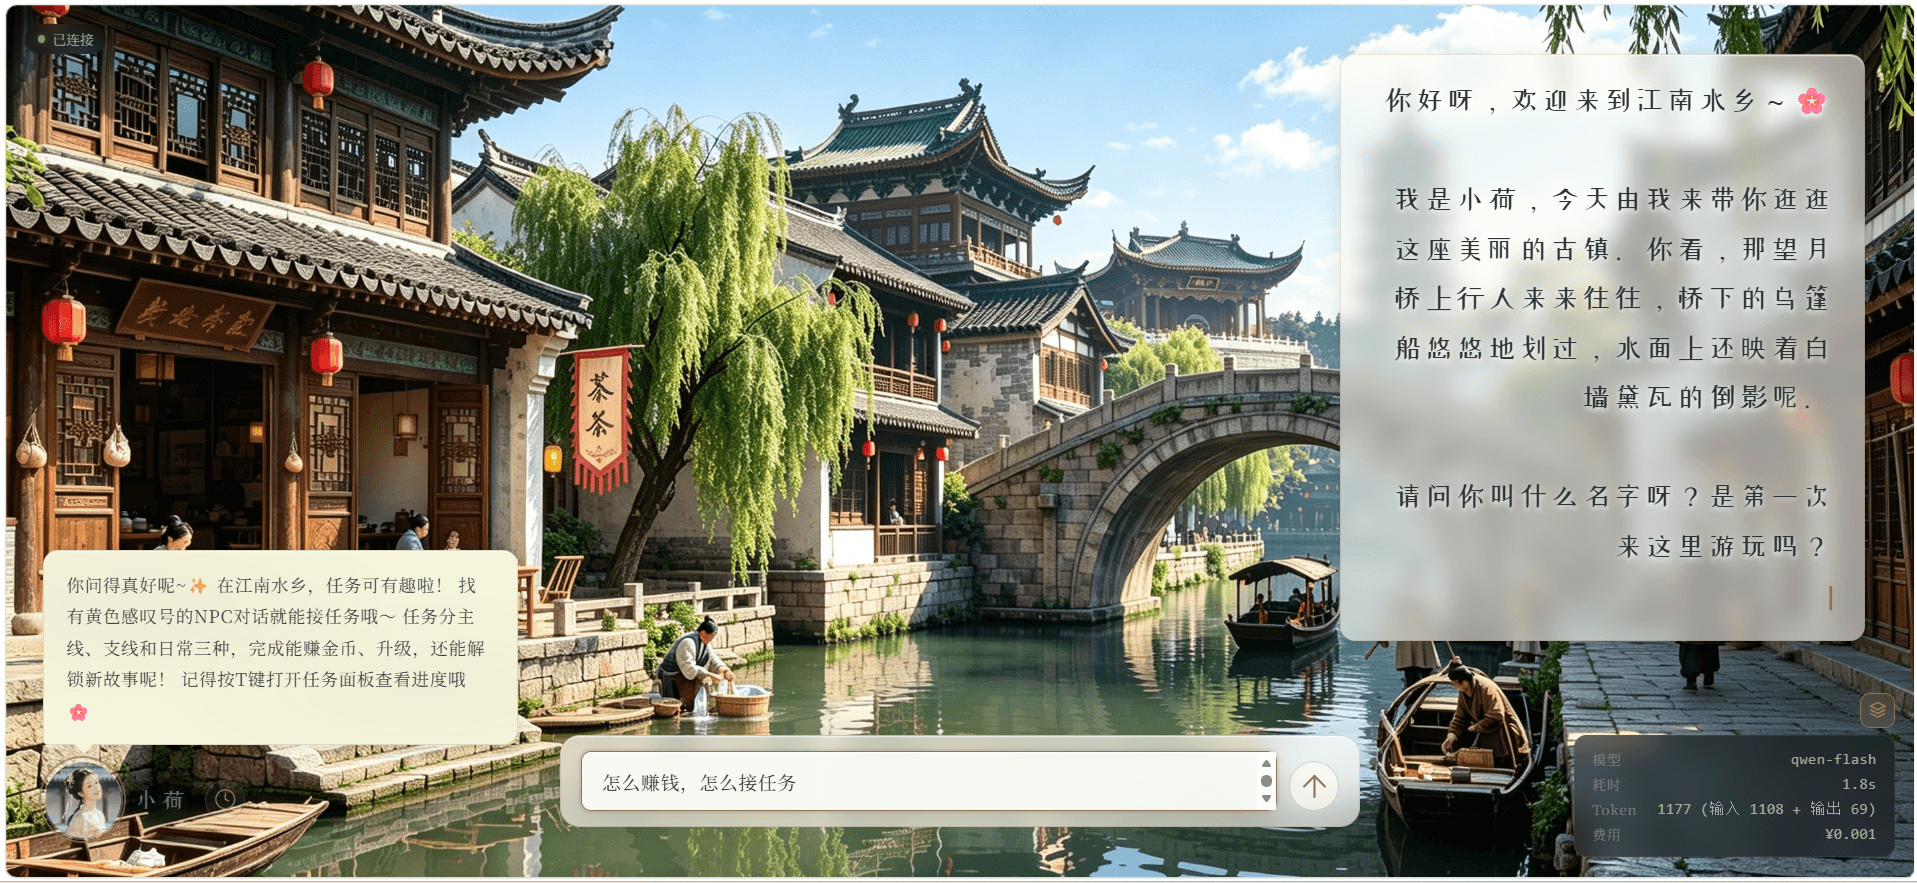
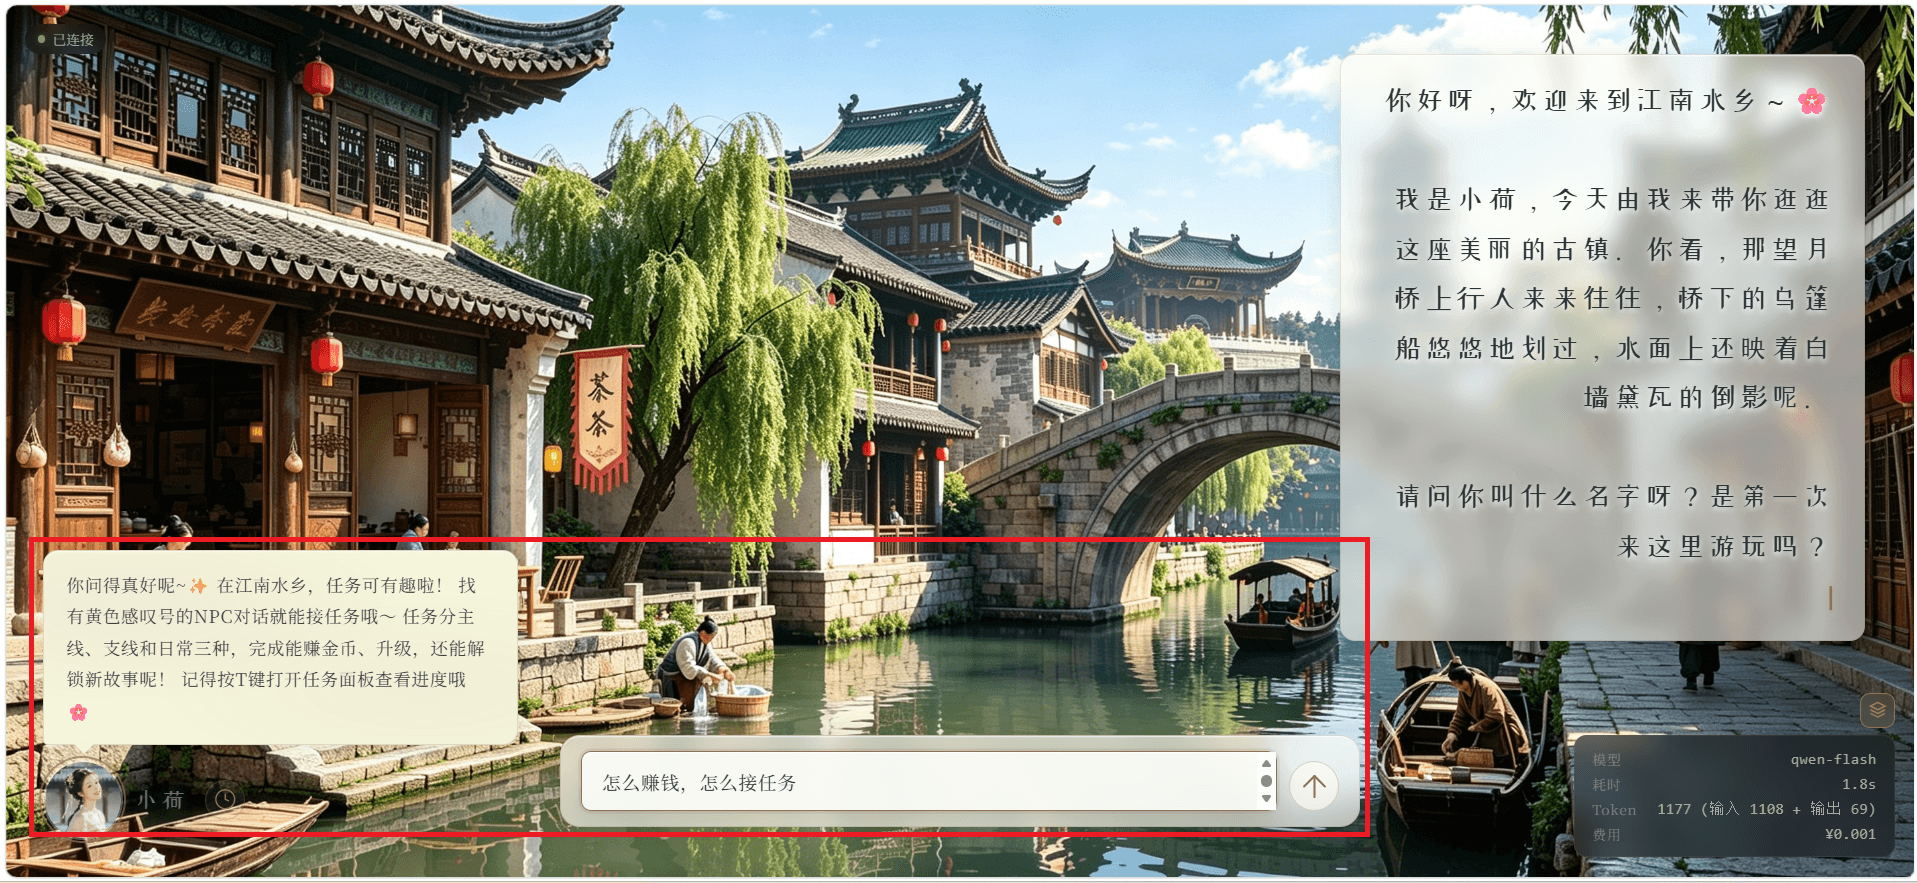
fix 1. context 没有正确传递

Changed region(s): [[0.0, 0.9173, 0.7387, 0.9479], [0.0308, 0.581, 0.7079, 0.6116], [0.0, 0.6116, 0.0308, 0.6421]]

diff --git a/backend/internal/observability/tracer.go b/backend/internal/observability/tracer.go
@@ -97,25 +97,12 @@ func EndSpanWithDuration(ctx context.Context, span trace.Span) {
 //	_, childSpan := observability.StartChildSpan(ctx, "Cache.Check")
 //	defer observability.EndChildSpan(ctx, childSpan)
 func StartChildSpan(ctx context.Context, name string) (context.Context, trace.Span) {
-	startTime := time.Now()
-	ctx = context.WithValue(ctx, spanStartTimeKey{}, startTime)
 	return Tracer().Start(ctx, name)
 }
 
-// EndChildSpan 结束子 Span 并记录耗时（毫秒）。
-// 需要配合 StartChildSpan 使用。
 func EndChildSpan(ctx context.Context, span trace.Span) {
 	if span == nil {
 		return
 	}
-
-	// 从 context 中获取开始时间并计算耗时
-	if startTime, ok := ctx.Value(spanStartTimeKey{}).(time.Time); ok {
-		durationMs := time.Since(startTime).Milliseconds()
-		span.SetAttributes(
-			attribute.Int64("duration_ms", durationMs),
-		)
-	}
-
 	span.End()
 }

diff --git a/backend/internal/agent/runtime.go b/backend/internal/agent/runtime.go
@@ -469,7 +469,7 @@ func (r *Runtime) HandleChatStream(ctx context.Context, session *Session, messag
 	r.logger.Info("[HandleChatStream] Checking LLM health", "healthy", isHealthy)
 
 	// 6. LLM调用子Span（包含完整的请求发送和数据接收）
-	_, llmSpan := observability.StartChildSpan(ctx, "LLM.StreamChat")
+	llmCtx, llmSpan := observability.StartChildSpan(ctx, "LLM.StreamChat")
 	if isHealthy {
 		r.logger.Info("[HandleChatStream] Calling primary LLM stream")
 		stream, err = r.llmAdapter.StreamChat(ctx, req)
@@ -483,10 +483,9 @@ func (r *Runtime) HandleChatStream(ctx context.Context, session *Session, messag
 		r.logger.Warn("[HandleChatStream] Primary LLM unhealthy, using fallback")
 		stream, err = r.fallbackAdapter.StreamChat(ctx, req)
 	}
-	// 注意：这里不结束 llmSpan，让它一直覆盖到流式数据处理完成
 
 	if err != nil {
-		observability.EndChildSpan(ctx, llmSpan)
+		observability.EndChildSpan(llmCtx, llmSpan)
 		r.logger.Error("[HandleChatStream] All LLM stream calls failed", "error", err)
 		observability.AgentRequestsTotal.WithLabelValues("chat", "error").Inc()
 		observability.RecordError(span, err)
@@ -508,7 +507,7 @@ func (r *Runtime) HandleChatStream(ctx context.Context, session *Session, messag
 		}
 
 		// 7. 流式数据接收子Span（在 LLM.StreamChat 内部）
-		_, receiveSpan := observability.StartChildSpan(ctx, "LLM.StreamReceive")
+		_, receiveSpan := observability.StartChildSpan(llmCtx, "LLM.StreamReceive")
 		chunkCount := 0
 		for chunk := range stream {
 			chunkCount++
@@ -534,9 +533,9 @@ func (r *Runtime) HandleChatStream(ctx context.Context, session *Session, messag
 				break
 			}
 		}
-		observability.EndChildSpan(ctx, receiveSpan)
+		observability.EndChildSpan(llmCtx, receiveSpan)
 		// 结束 LLM.StreamChat Span（包含请求发送和数据接收）
-		observability.EndChildSpan(ctx, llmSpan)
+		observability.EndChildSpan(llmCtx, llmSpan)
 
 		if fullReply.Len() == 0 {
 			r.logger.Warn("[HandleChatStream] Stream returned empty data, falling back to non-streaming")